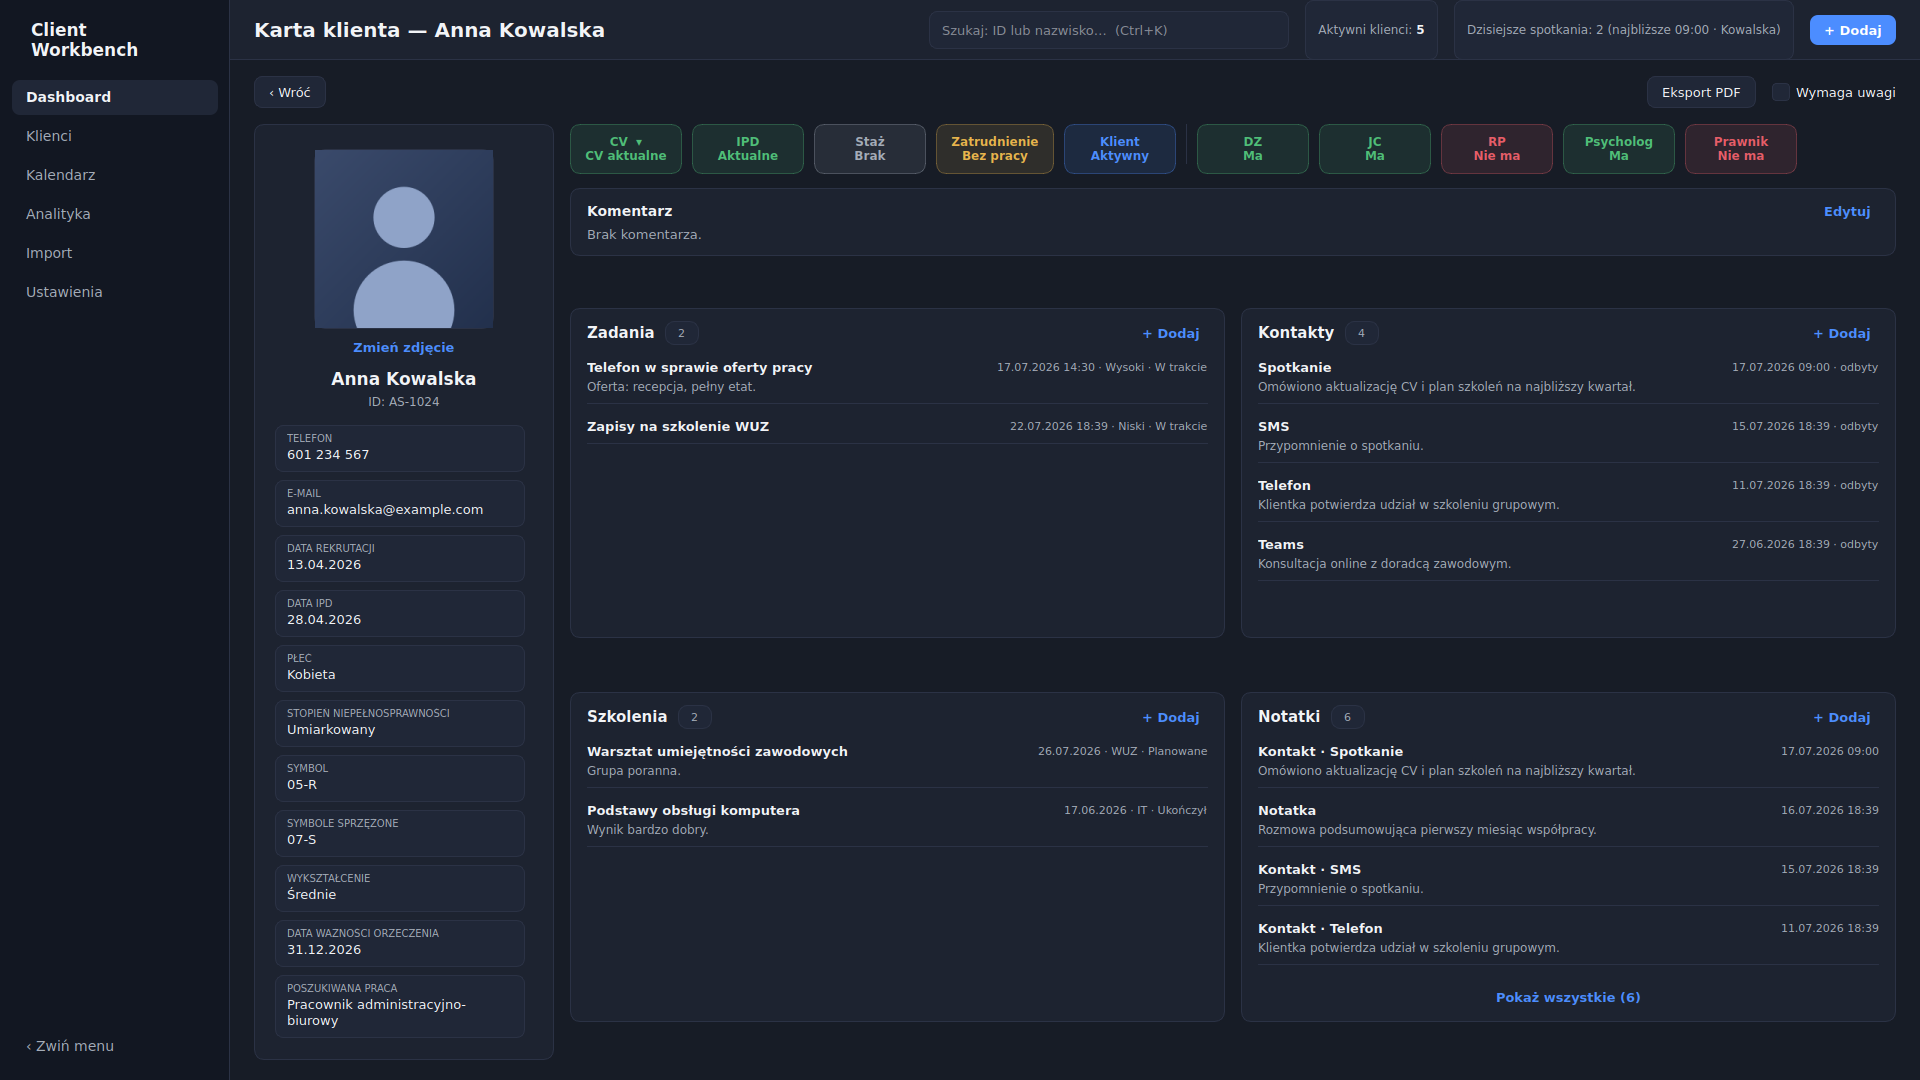
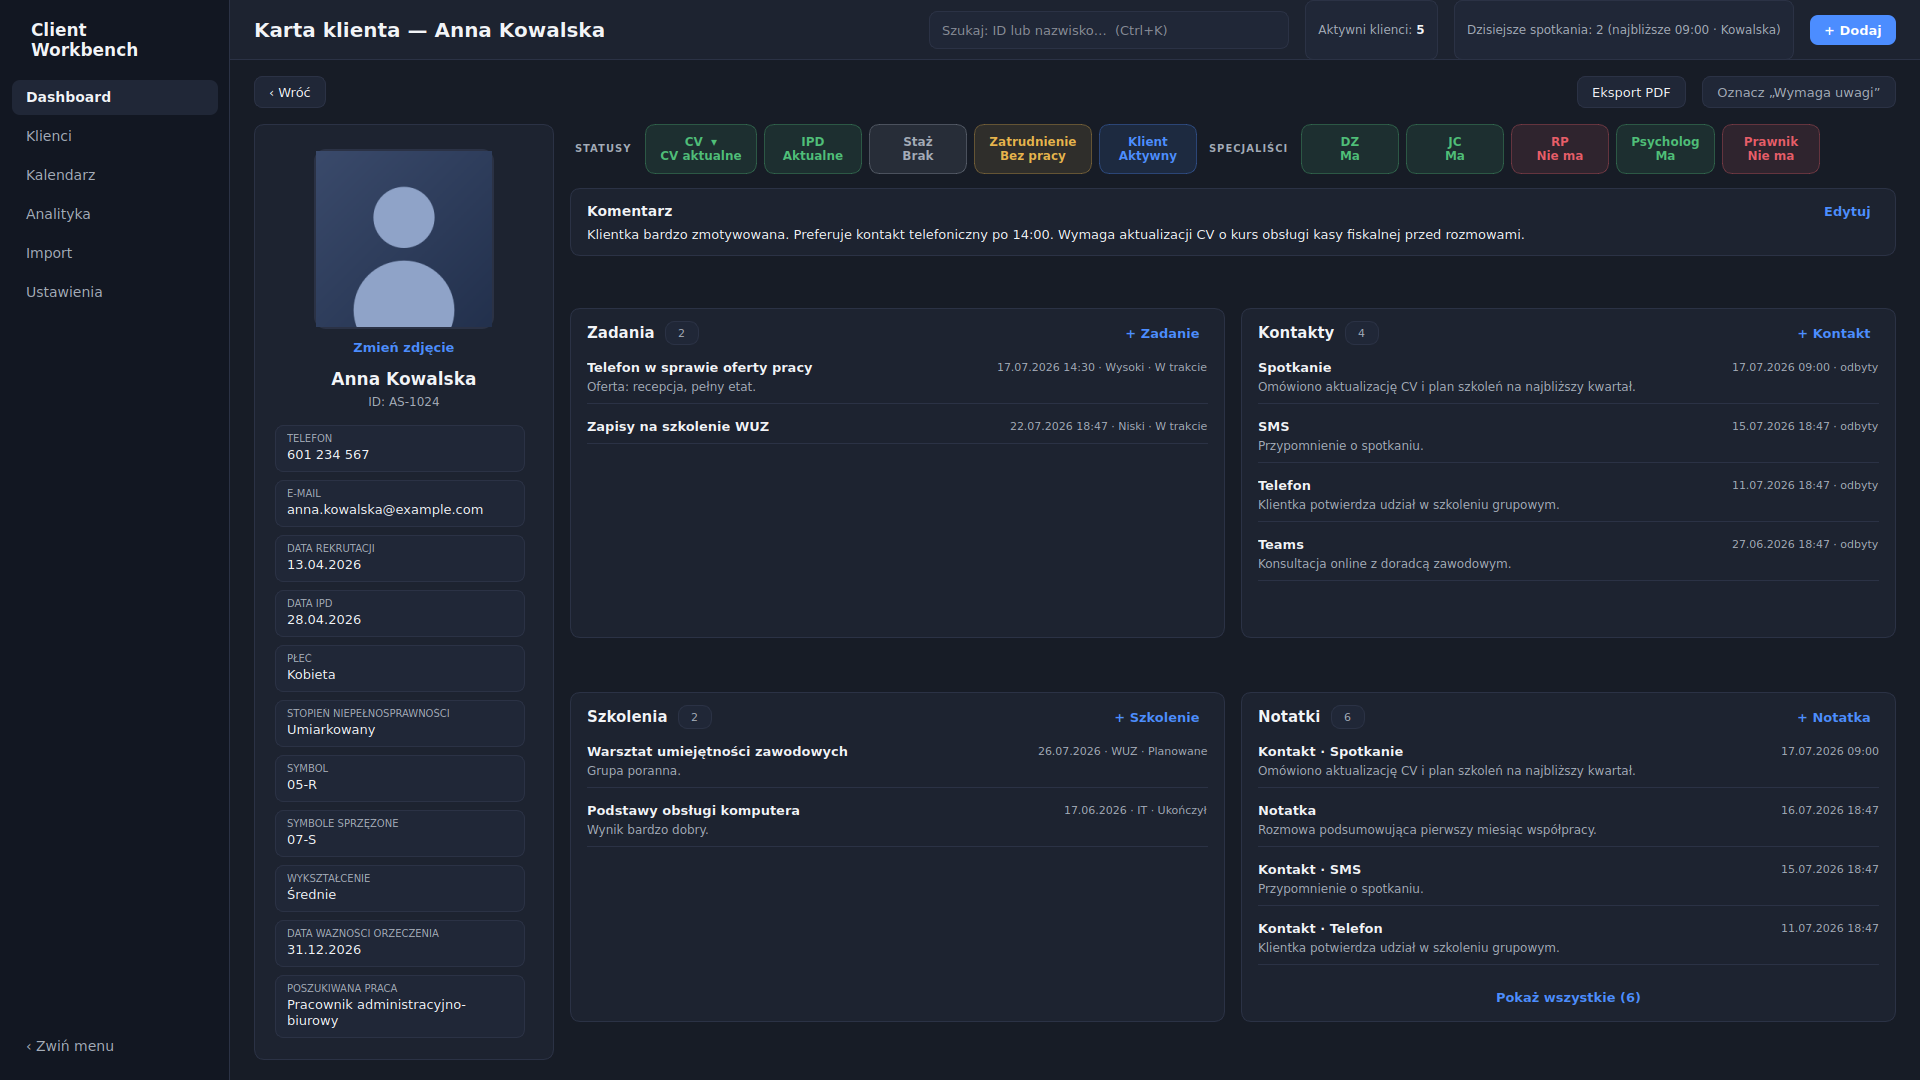
Karta klienta: 6 usprawnień UX (hierarchia statusów, moduły, komentarz, zdjęcie)
1) rząd statusów z nagłówkami grup STATUSY / SPECJALIŚCI (hierarchia), całość w jednej linii
2) pusty moduł: czytelny placeholder z podpowiedzią i przerywaną ramką
3) 'Wymaga uwagi' jako wyraźny przełącznik (żółty gdy aktywny) zamiast checkboxa
4) panel Komentarz — kompaktowy gdy pusty, pełny gdy jest treść
5) ramka zdjęcia spójna z ramkami danych (2 px)
6) przyciski modułów: '+ Zadanie/Kontakt/Szkolenie/Notatka' zamiast ogólnego '+ Dodaj'

Claude-Session: https://claude.ai/code/session_0111JaRPMQvjsJitfGePPiND

diff --git a/src/ui/pages/client_card_page.py b/src/ui/pages/client_card_page.py
@@ -81,9 +81,11 @@ class ClientCardPage(QWidget):
         self._pdf_btn.setCursor(Qt.CursorShape.PointingHandCursor)
         self._pdf_btn.clicked.connect(self._export_pdf)
         top.addWidget(self._pdf_btn)
-        self._attention_check = QCheckBox("Wymaga uwagi")
-        self._attention_check.toggled.connect(self._toggle_attention)
-        top.addWidget(self._attention_check)
+        self._attention_btn = QPushButton("Wymaga uwagi")
+        self._attention_btn.setCheckable(True)
+        self._attention_btn.setCursor(Qt.CursorShape.PointingHandCursor)
+        self._attention_btn.toggled.connect(self._toggle_attention)
+        top.addWidget(self._attention_btn)
         root.addLayout(top)
 
         body = QHBoxLayout()
@@ -150,7 +152,7 @@ class ClientCardPage(QWidget):
 
         # rząd statusów: wszystkie kontrolki w jednej linii (zawijanej gdy brak miejsca)
         status_wrap = QWidget()
-        self._status_flow = FlowLayout(status_wrap, margin=0, spacing=10)
+        self._status_flow = FlowLayout(status_wrap, margin=0, spacing=7)
         right.addWidget(status_wrap)
 
         # panel Komentarz (osobne, obramowane pole — treść od razu widoczna)
@@ -246,12 +248,13 @@ class ClientCardPage(QWidget):
                     )
                 )
                 self._photo.setStyleSheet(
-                    f"border-radius: 12px; border: 1px solid {self._palette.line};"
+                    f"border-radius: 12px; border: 2px solid {self._palette.line};"
+                    f"background: {self._palette.card};"
                 )
         if self._photo.pixmap().isNull():
-            # brak zdjęcia = pusty placeholder, bez inicjałów
+            # brak zdjęcia = pusty placeholder, bez inicjałów (spójna ramka jak pola danych)
             self._photo.setStyleSheet(
-                f"background: {self._palette.card}; border: 1px dashed {self._palette.line};"
+                f"background: {self._palette.card}; border: 2px solid {self._palette.line};"
                 "border-radius: 12px;"
             )
 
@@ -260,17 +263,18 @@ class ClientCardPage(QWidget):
         self._id_lbl.setText(f"ID: {client.external_id}")
         self._fill_left_info()
 
-        # panel Komentarz
+        # panel Komentarz — pełny gdy jest treść, kompaktowy gdy pusty (#4)
         comment = client.import_comment.strip() if client.import_comment else ""
-        self._comment_lbl.setText(comment or "Brak komentarza.")
+        self._comment_lbl.setText(comment or "Brak komentarza — kliknij „Edytuj”, aby dodać.")
         self._comment_lbl.setStyleSheet(
-            f"font-size: 13px; line-height: 135%; color: "
+            f"font-size: {'13px' if comment else '12px'}; line-height: 135%; color: "
             f"{self._palette.text if comment else self._palette.text_muted};"
         )
 
-        self._attention_check.blockSignals(True)
-        self._attention_check.setChecked(client.requires_attention)
-        self._attention_check.blockSignals(False)
+        self._attention_btn.blockSignals(True)
+        self._attention_btn.setChecked(client.requires_attention)
+        self._attention_btn.blockSignals(False)
+        self._style_attention(client.requires_attention)
 
         self._build_status_row()
         self._build_modules()
@@ -286,6 +290,18 @@ class ClientCardPage(QWidget):
         def save() -> None:
             self._store.update_client(client)
             self._on_data_changed()
+
+        def caption(text: str) -> None:
+            lbl = QLabel(text)
+            lbl.setFixedHeight(50)
+            lbl.setAlignment(Qt.AlignmentFlag.AlignVCenter | Qt.AlignmentFlag.AlignLeft)
+            lbl.setStyleSheet(
+                f"color: {p.text_muted}; font-size: 10px; font-weight: 700;"
+                "letter-spacing: 1px; padding: 0 2px;"
+            )
+            self._status_flow.addWidget(lbl)
+
+        caption("STATUSY")
 
         # CV — pill z rozwijanym menu (3 stany), identyczny kształt jak pozostałe statusy
         def cv_changed(v: str) -> None:
@@ -322,11 +338,8 @@ class ClientCardPage(QWidget):
         add_pill("Klient", ["aktywny", "zamkniety"], CLIENT_STATUS_LABELS, client.client_status,
                  {"aktywny": p.accent, "zamkniety": p.text_muted}, "client_status")
 
-        # subtelny separator między statusami procesu a cechami tak/nie
-        divider = QFrame()
-        divider.setFixedSize(1, STATUS_DIVIDER_HEIGHT)
-        divider.setStyleSheet(f"background: {p.line}; border: none;")
-        self._status_flow.addWidget(divider)
+        # nagłówek grupy cech tak/nie
+        caption("SPECJALIŚCI")
 
         # toggle zielony/czerwony: DZ / JC / RP / Psycholog / Prawnik (ma / nie ma)
         def add_flag(title: str, attr: str) -> None:
@@ -397,7 +410,7 @@ class ClientCardPage(QWidget):
         head.addStretch(1)
 
         if add_kind is not None:
-            add_btn = QPushButton("+ Dodaj")
+            add_btn = QPushButton(f"+ {add_kind}")
             add_btn.setObjectName("Ghost")
             add_btn.setCursor(Qt.CursorShape.PointingHandCursor)
             add_btn.clicked.connect(lambda: self._open_add_dialog(add_kind))
@@ -410,8 +423,14 @@ class ClientCardPage(QWidget):
             edit_ref = entry[3] if len(entry) > 3 else None
             layout.addWidget(self._entry_row(header, meta, content, edit_ref))
         if not entries:
-            empty = QLabel("Brak wpisów")
-            empty.setStyleSheet(f"color: {p.text_muted}; font-size: 12px;")
+            empty = QLabel(
+                f"Brak wpisów.\nKliknij „+ {add_kind}”, aby dodać." if add_kind else "Brak wpisów."
+            )
+            empty.setAlignment(Qt.AlignmentFlag.AlignCenter)
+            empty.setStyleSheet(
+                f"color: {p.text_muted}; font-size: 12px; line-height: 145%;"
+                f"border: 1px dashed {p.line}; border-radius: 8px; padding: 18px;"
+            )
             layout.addWidget(empty)
         layout.addStretch(1)
 
@@ -604,6 +623,25 @@ class ClientCardPage(QWidget):
         self._store.set_client_photo(self._client, path)
         self.show_client(self._client.id)
 
+    def _style_attention(self, active: bool) -> None:
+        p = self._palette
+        from ui.widgets.pills import with_alpha
+
+        if active:
+            self._attention_btn.setText("● Wymaga uwagi")
+            self._attention_btn.setStyleSheet(
+                f"QPushButton {{ background: {with_alpha(p.yellow, 0.18)}; color: {p.yellow};"
+                f"border: 1px solid {with_alpha(p.yellow, 0.5)}; border-radius: 8px;"
+                "padding: 7px 14px; font-weight: 700; }}"
+            )
+        else:
+            self._attention_btn.setText("Oznacz „Wymaga uwagi”")
+            self._attention_btn.setStyleSheet(
+                f"QPushButton {{ background: {p.card}; color: {p.text_muted};"
+                f"border: 1px solid {p.line}; border-radius: 8px; padding: 7px 14px; }}"
+                f"QPushButton:hover {{ color: {p.yellow}; border-color: {with_alpha(p.yellow, 0.5)}; }}"
+            )
+
     def _toggle_attention(self, checked: bool) -> None:
         if self._client is None:
             return
@@ -611,6 +649,7 @@ class ClientCardPage(QWidget):
         if not checked:
             self._client.attention_note = ""
         self._store.update_client(self._client)
+        self._style_attention(checked)
         self._on_data_changed()
 
 

diff --git a/src/data/sample_data.py b/src/data/sample_data.py
@@ -67,6 +67,8 @@ def build_demo_data() -> DemoData:
             combined_symbols="07-S", education="Średnie",
             certificate_valid_until=date(2026, 12, 31),
             desired_job="Pracownik administracyjno-biurowy",
+            import_comment="Klientka bardzo zmotywowana. Preferuje kontakt telefoniczny po 14:00. "
+                           "Wymaga aktualizacji CV o kurs obsługi kasy fiskalnej przed rozmowami.",
         ),
         Client(
             id=2, external_id="AS-1031", first_name="Marek", last_name="Nowak",

diff --git a/src/ui/widgets/pills.py b/src/ui/widgets/pills.py
@@ -11,7 +11,7 @@ from ui.styles.theme import Palette
 
 # Wspólne wymiary kontrolek statusu (jednolity kształt w rzędzie karty klienta)
 STATUS_PILL_HEIGHT = 50
-STATUS_PILL_MIN_WIDTH = 112
+STATUS_PILL_MIN_WIDTH = 98
 
 
 def _pill_qss(color: str) -> str:
